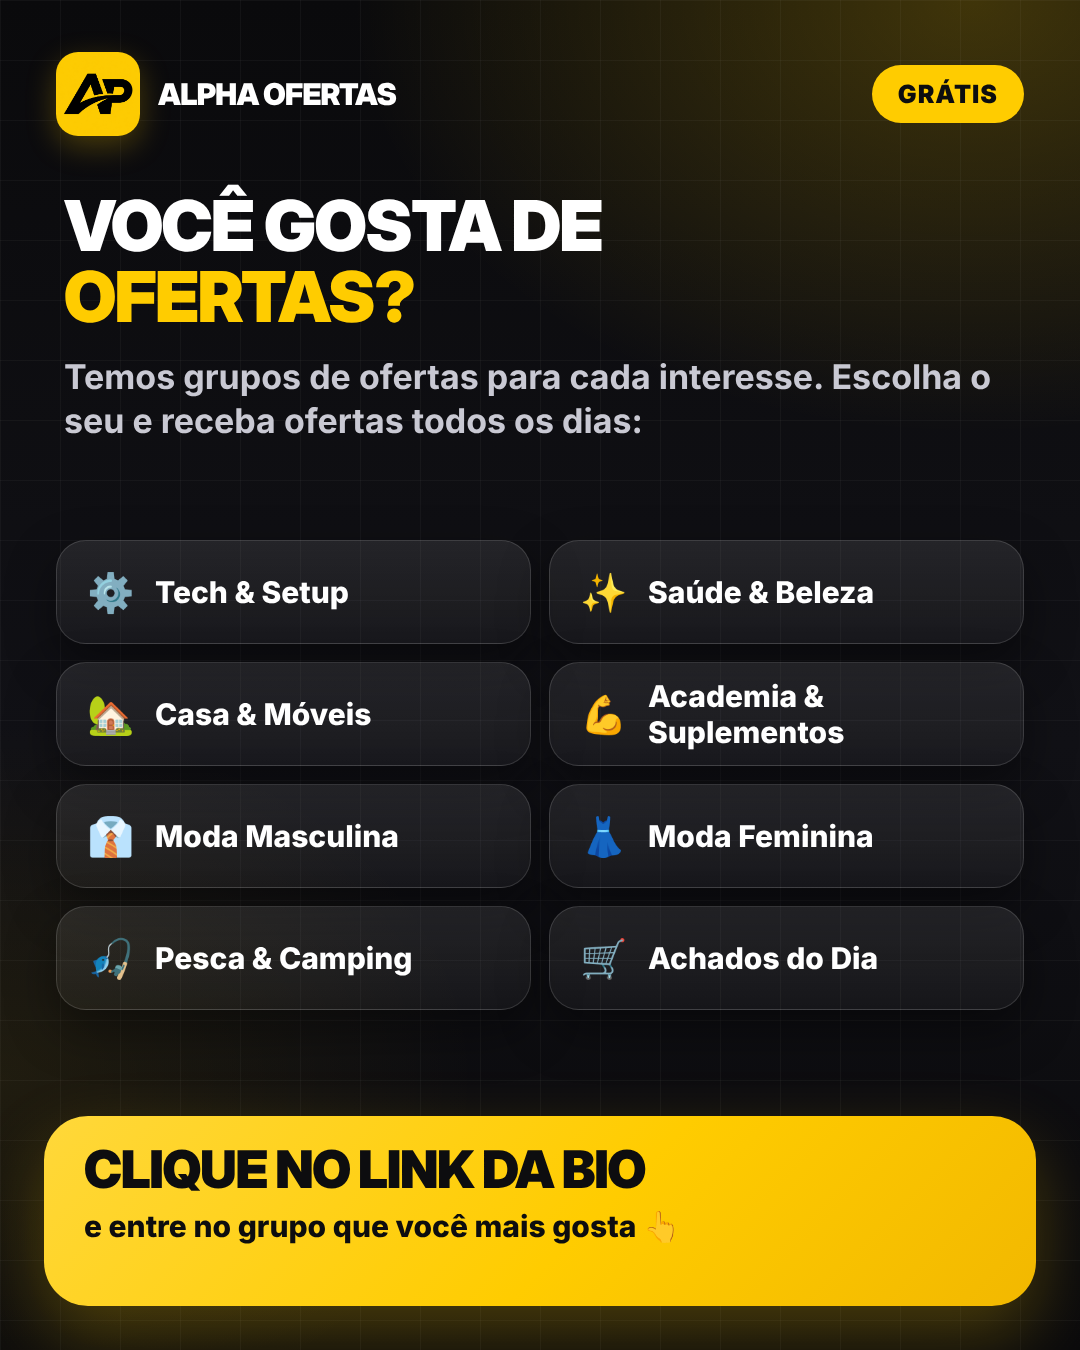
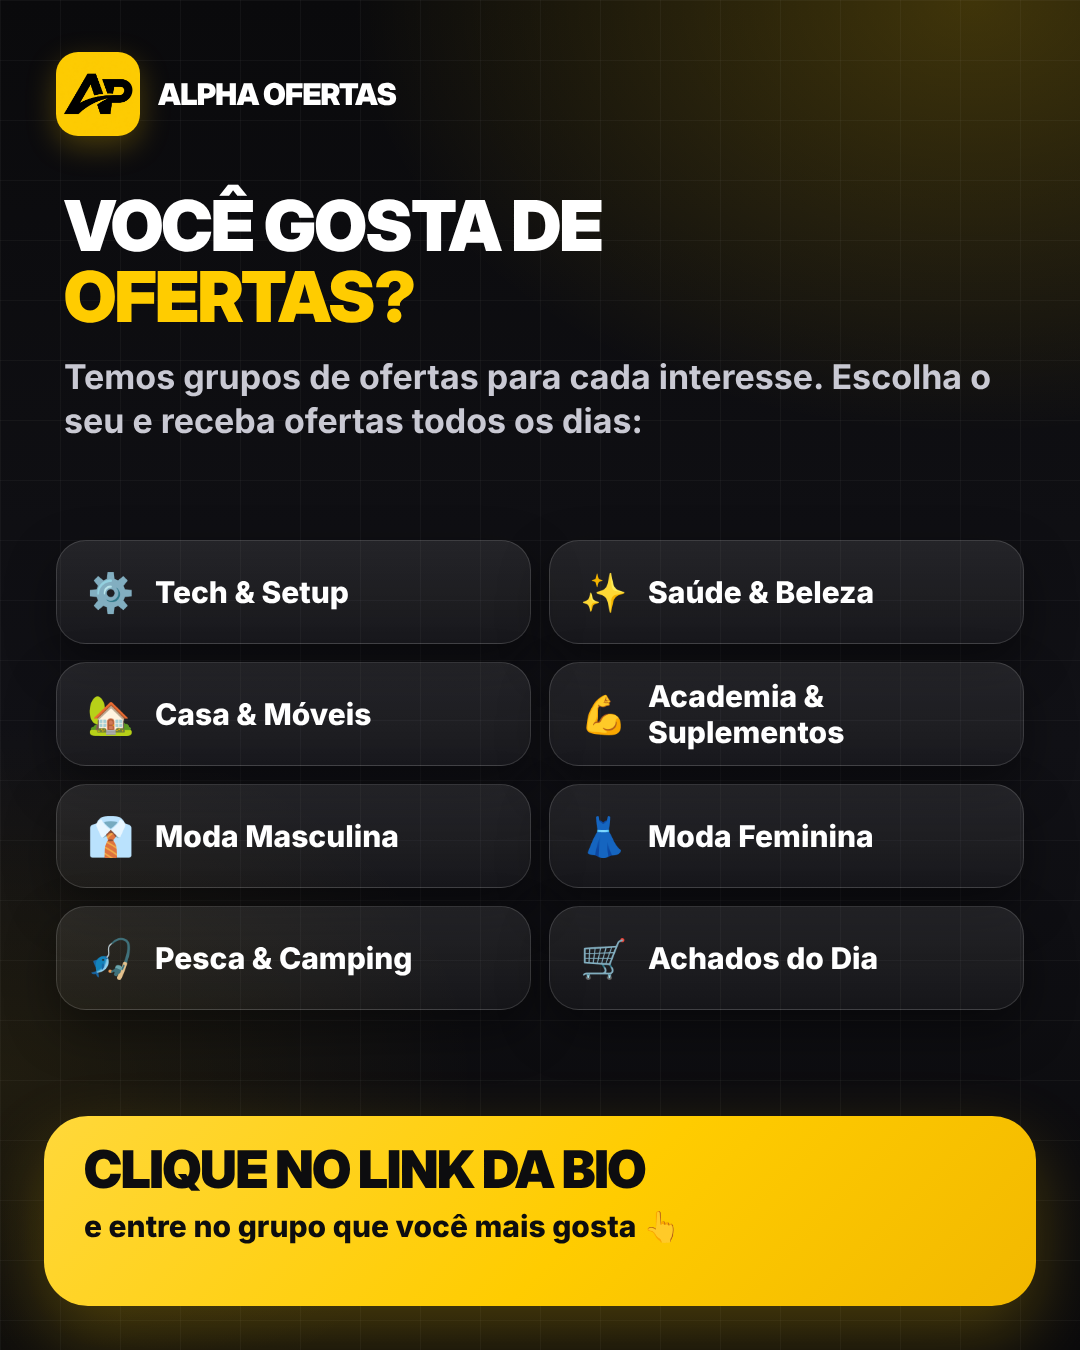
Imagens dos grupos sem selo GRÁTIS
Claude-Session: https://claude.ai/code/session_01Tf5FmHwZKYtvbVrHBSy4Wu

Changed region(s): [[0.7944, 0.0311, 0.9472, 0.0933]]

diff --git a/automation/render_grupos.py b/automation/render_grupos.py
@@ -15,7 +15,7 @@ body{background:#0A0A0C;font-family:'Inter','Inter Display',sans-serif;color:#ff
 def head(top):
     return f'''<div style="position:absolute;left:56px;right:56px;top:{top}px;display:flex;align-items:center;justify-content:space-between">
 <div style="display:flex;align-items:center;gap:18px"><img src="file://{LOGO}" style="width:84px;height:84px;border-radius:22px;box-shadow:0 10px 30px rgba(255,204,0,.25)"><div class="d" style="font-size:30px;text-transform:uppercase">Alpha Ofertas</div></div>
-<span style="background:#FFCC00;color:#0D0D0F;font-weight:900;font-size:25px;padding:14px 26px;border-radius:999px;letter-spacing:.04em">GRÁTIS</span></div>'''
+</div>'''
 def cards(top,fs,h,gap):
     items=''.join(f'<div class="glass" style="display:flex;align-items:center;gap:22px;height:{h}px;padding:0 30px;border-radius:30px;font-size:{fs}px;font-weight:800"><span style="font-size:{fs+8}px;width:{fs+16}px;text-align:center">{e}</span><span>{t}</span></div>' for e,t in G)
     return f'<div style="position:absolute;left:56px;right:56px;top:{top}px;display:grid;grid-template-columns:1fr 1fr;gap:{gap}px">{items}</div>'
